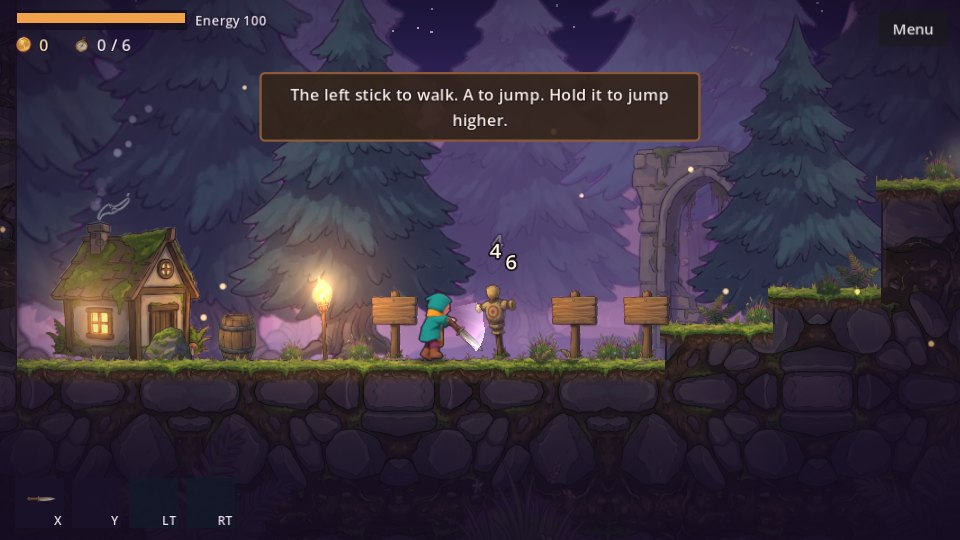
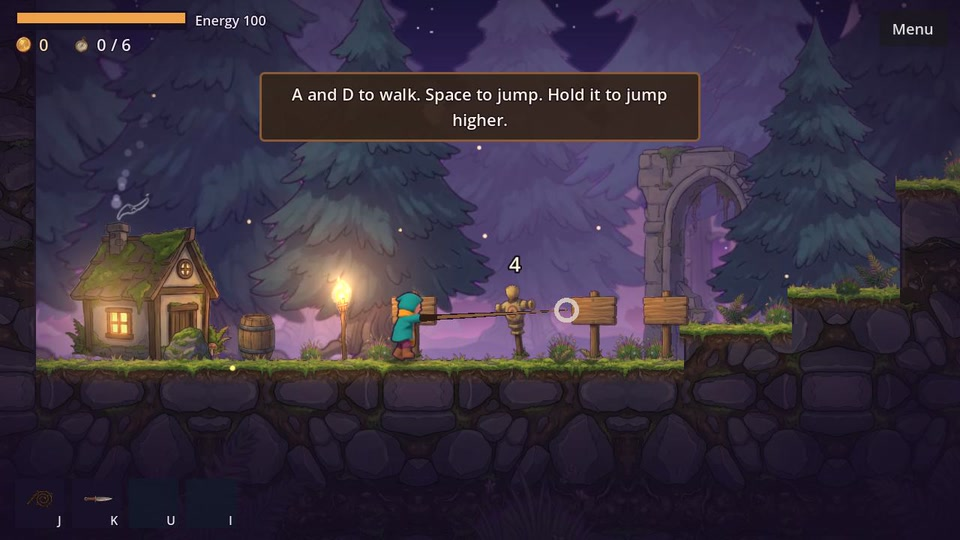
Game Shelf: Home by Dusk v0.4.0 card, new picture and Updated stamp
Claude-Session: https://claude.ai/code/session_0117TTYAY67RRuCDeh5Xexj2

diff --git a/index.html b/index.html
@@ -119,11 +119,11 @@ footer{margin-top:40px;color:var(--soft);font-size:14px;text-align:center}
 </article>
 
 <article class="card" data-repo="home-by-dusk">
-<a class="shot" href="home-by-dusk/"><img src="images/home-by-dusk.jpg?v=0.3.0" alt="Home by Dusk: Wren swings her sword at the training dummy, a pale streak behind the blade, under dark pines at dusk" width="960" height="540" loading="lazy"></a>
+<a class="shot" href="home-by-dusk/"><img src="images/home-by-dusk.jpg?v=0.4.0" alt="Home by Dusk: Wren cracks her whip at the training dummy, under dark pines at dusk" width="960" height="540" loading="lazy"></a>
 <div class="body">
 <div class="top"><h2><a href="home-by-dusk/">Home by Dusk</a></h2><span class="tag">A calm, spooky painted adventure</span></div>
-<p class="desc">Walk the painted Dusk Hollow, find keepsakes and secrets and gather better weapons and abilities. Two of each, on their own buttons. Foes cost energy, never a life. When you tire, you head home with your coins. Plays with touch, a keyboard or an Xbox controller.</p>
-<p class="meta">Browser and Android<span class="ver"></span> <span class="upd">· Updated <time datetime="2026-11-15T22:18-06:00">Nov 15, 2026, 10:18 PM CT</time></span></p>
+<p class="desc">Walk the painted Dusk Hollow with a whip in hand, find keepsakes and secrets and gather better weapons and abilities. Two of each, on their own buttons. Foes cost energy, never a life. When you tire, you head home with your coins. Plays with touch, a keyboard or an Xbox controller.</p>
+<p class="meta">Browser and Android<span class="ver"></span> <span class="upd">· Updated <time datetime="2026-11-15T23:56-06:00">Nov 15, 2026, 11:56 PM CT</time></span></p>
 <div class="actions"><a class="btn" href="home-by-dusk/">Open game page</a></div>
 </div>
 </article>
